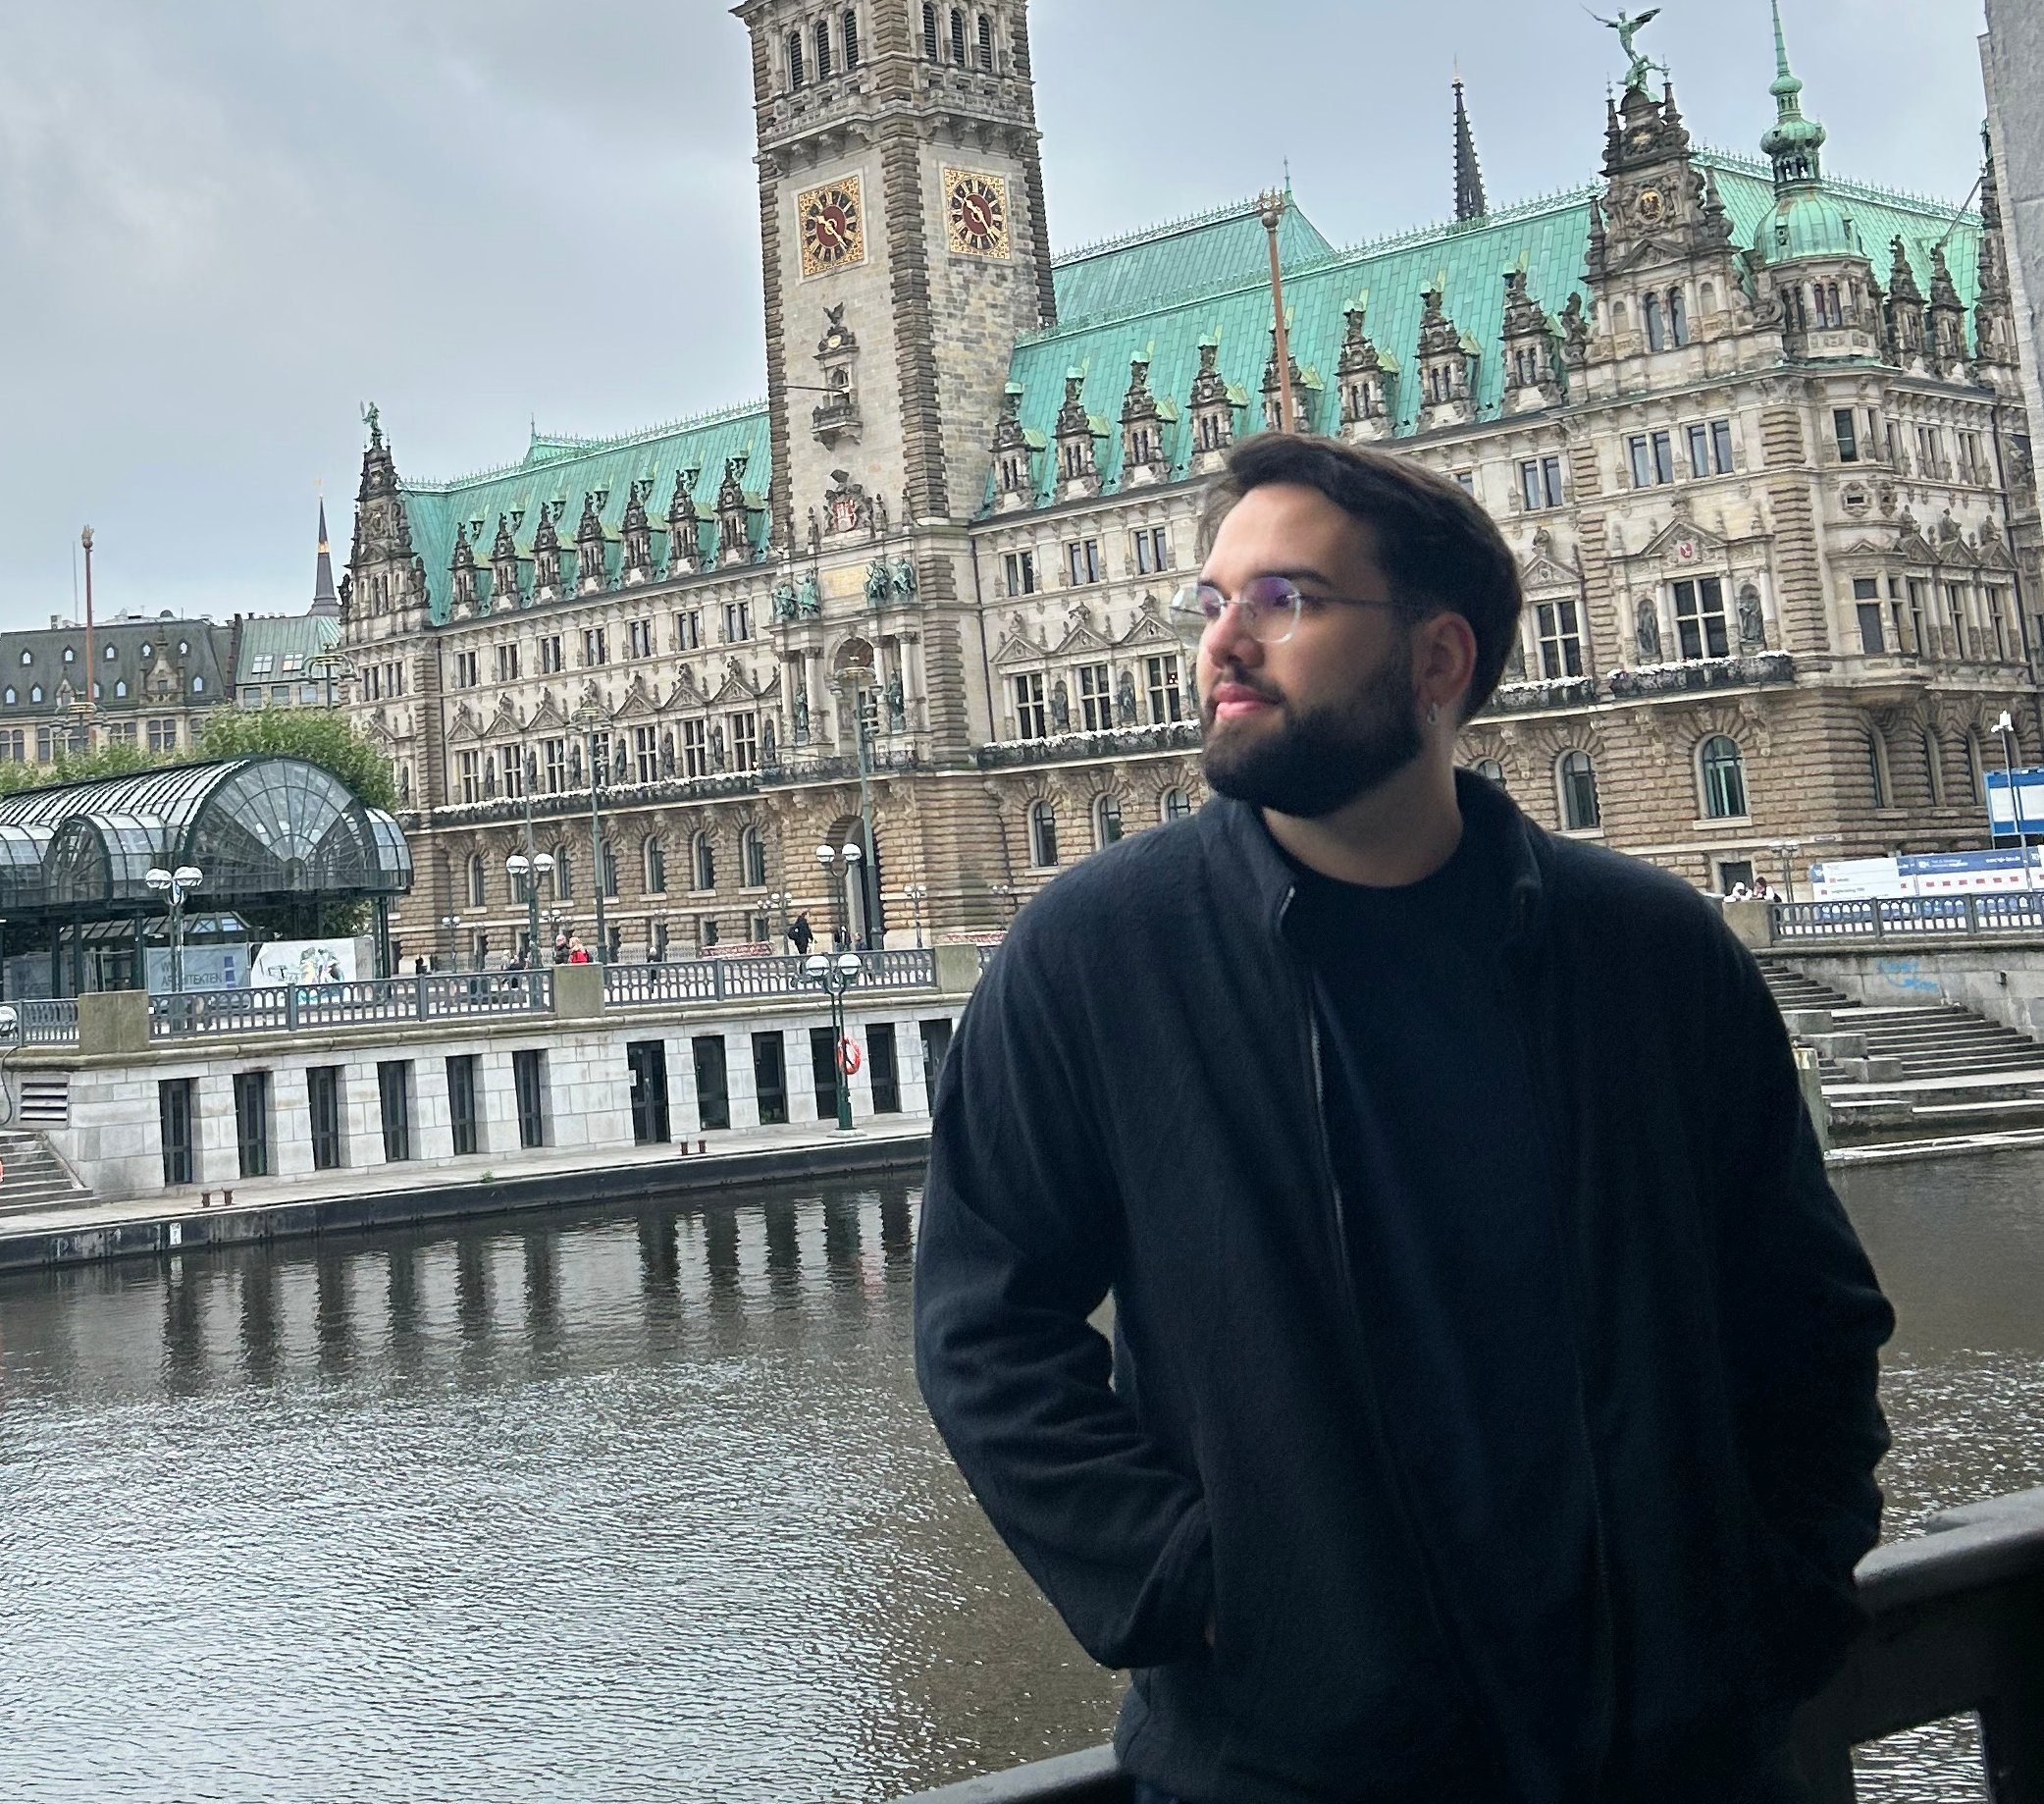
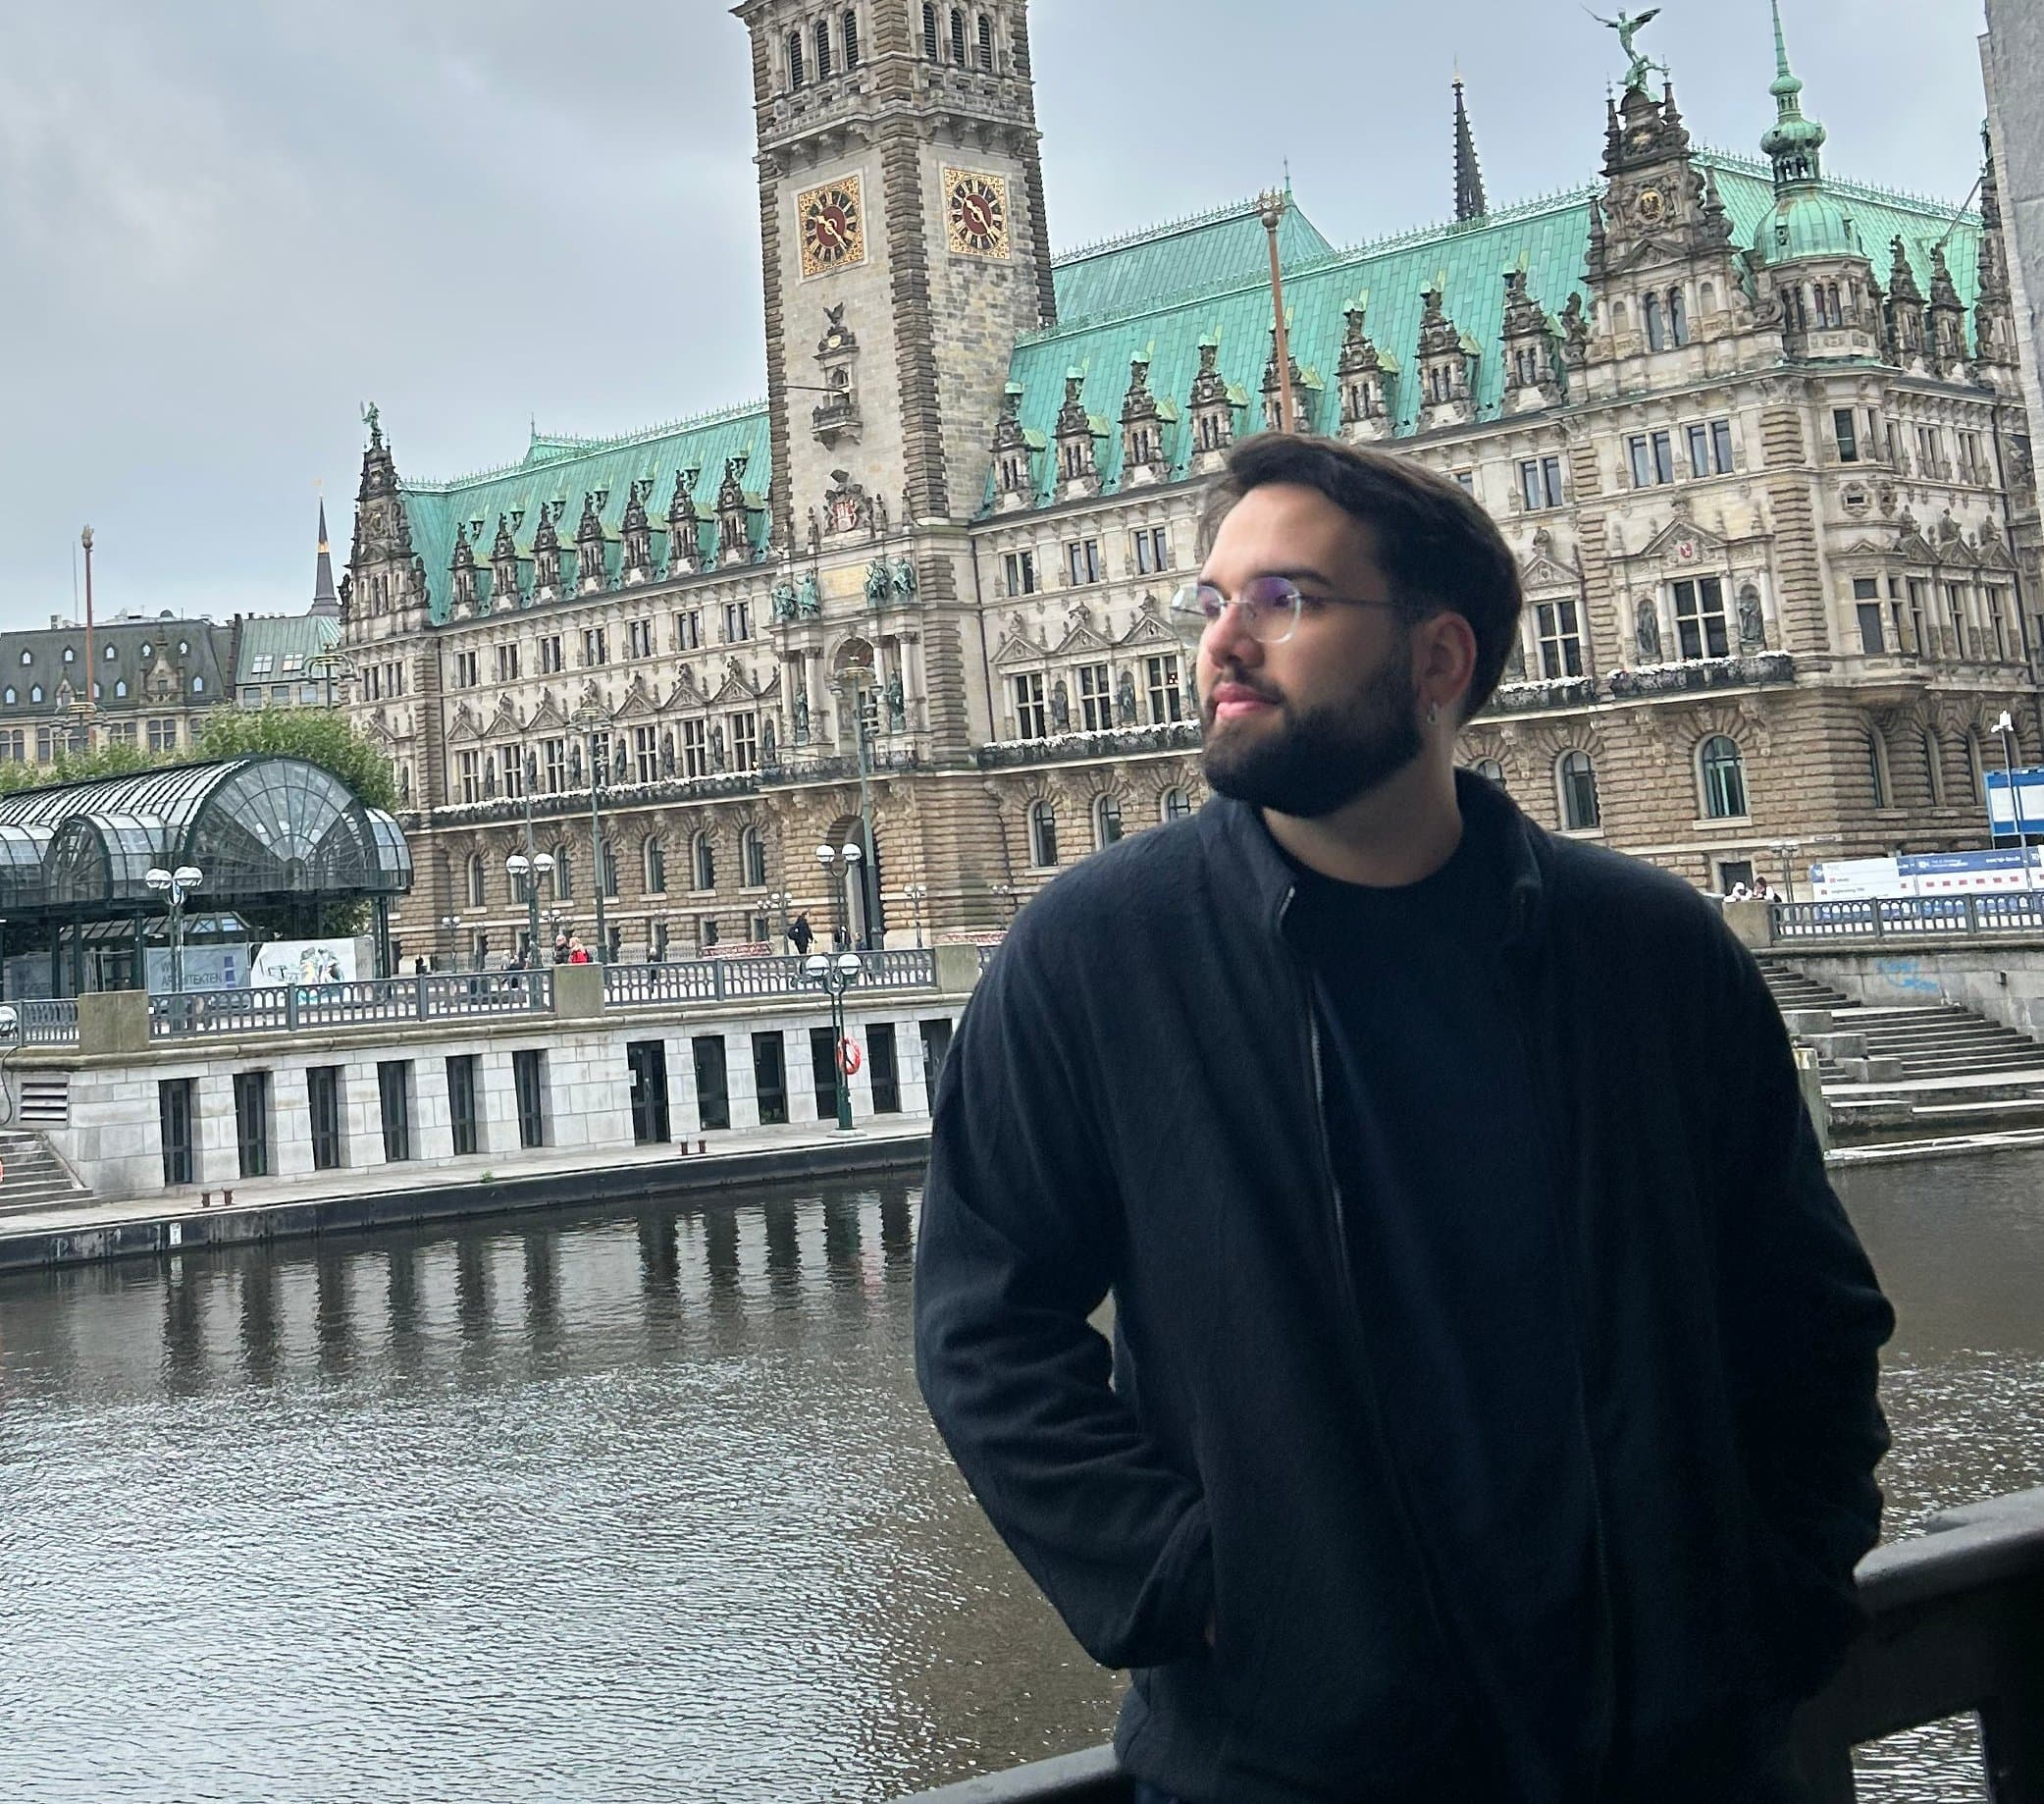
added another blog post

Changed region(s): [[0.0624, 0.4342, 0.0936, 0.4652], [0.0, 0.4342, 0.0312, 0.4652]]

diff --git a/app/utils/postsData.ts b/app/utils/postsData.ts
@@ -166,4 +166,106 @@ export const posts: Post[] = [
     </article>
     `,
   },
+  {
+    id: "3",
+    date: "2026-05-13",
+    image: "d2b",
+    title: "B2Brain is out!",
+    content: `D2Brain is a place where players can share ideas and thoughts about the game. With the help
+    of AI, we can utilize features like summarization and with some research even create ideas from scrach.`,
+    htmlContent: `
+      <article class="prose lg:prose-xl dark:prose-invert relative z-10 bg-background/50 backdrop-blur-sm rounded-xl p-8 shadow-xl mx-auto mb-12">
+
+        <!-- Intro CTA card -->
+        <div class="not-prose mb-10 flex flex-col sm:flex-row sm:items-center gap-5 p-6 bg-base-200/70 backdrop-blur-sm rounded-xl border border-base-300 shadow-lg">
+          <p class="text-lg leading-relaxed flex-1 m-0">
+            D2Brain is out and you can access it at
+            <a class="text-sky-500 hover:text-sky-600 transition-colors underline" href="https://d2b.vercel.app">this link</a>,
+            your support will be very appreciated. I'm still on early stages of the platform but I've already have a lot of ideas to implement.
+          </p>
+          <a href="https://d2b.vercel.app" class="not-prose shrink-0 inline-flex items-center gap-2 px-5 py-2.5 bg-primary text-primary-content font-semibold rounded-lg hover:opacity-90 transition-opacity text-sm no-underline">
+            Visit D2Brain &rarr;
+          </a>
+        </div>
+
+        <h2 class="text-3xl font-bold mt-12 mb-6">Side Projects &amp; Motivation</h2>
+        <p class="text-lg leading-relaxed mb-6">
+          My idea of a side project is something that can be helpful for my career(at least on the stage I'm at right now) and it maybe can generate
+          some passive income. The dream scenario is a project that can improve my skills making money in the process, but this is very hard since
+          I don't have the skills to do all of that, so let's keep on the study and improvement focus so it is harder to get unmotivated.
+        </p>
+        <p class="text-lg leading-relaxed mb-6">
+          In the first blog post I commented about how easy it is to lose track and eventually let your side project die, I have a nice example at
+          the <a class="text-sky-500 hover:text-sky-600 transition-colors underline" href="/projects">projects</a> page on this website. With the popularity of
+          AI tools I started to redo some of the old ideas that I had in mind because it is easy to get started and with more experience that I have now,
+          I'm able to move way faster. Honestly, I let another side project die again but this website is the result of combining something that can be helpful for me
+          and improving my skills.
+        </p>
+
+        <!-- Callout quote -->
+        <div class="my-10 p-8 border-l-4 border-primary bg-base-200/70 backdrop-blur-sm rounded-xl shadow-lg not-prose">
+          <h3 class="text-xl font-semibold mb-3">A lesson learned</h3>
+          <p class="text-lg italic">I consume a lot of programming related content and I've heard this sentence a lot of times: &ldquo;Build something that can make your life easier&rdquo;. And for some reason I always try to make something that can make money instead.</p>
+        </div>
+
+        <h2 class="text-3xl font-bold mt-12 mb-6">The Journey</h2>
+        <p class="text-lg leading-relaxed mb-6">
+          The D2Brain project is another "successful" side project in the sense that I started it to help me with my work and it has been a great learning experience.
+          I've already tried to create a platform like that a few years back but I never really got the hang of it and gave up. This time I decided to give it another shot
+          and I'm glad I did. And most important, I had an idea that I wanted to implement from start to finish and I was able to execute it successfully. Now I'm on the path
+          to improve the platform and make it even better.
+        </p>
+        <p class="text-lg leading-relaxed mb-6">
+          I consume a lot of programming related content and I've heard this sentence a lot of times: "Build something that can make your life easier". And for some reason I always
+          try to make something that can make money instead. Eventually I realized that I'm building something that is pointless and not useful for me, and after this realization
+          it's basically impossible to get motivated to continue working on it. This blog is the first example of a platform that can be helpful for me, building some features that
+          can actually be useful and display my work to others.
+        </p>
+        <p class="text-lg leading-relaxed mb-6">
+          The idea to revive the D2Brain platform is my love for the game and my desire to bring something that is meaningful for me and for others. So working with the game
+          that I love is very rewarding and adding meanful features feel even more rewarding. Finishing that was a huge step forward and I'm excited to see what the next steps will be.
+          I struggled so much to finish a product and now I'm even creating roadmaps, improving existing features and making the platform always better.
+        </p>
+
+        <h2 class="text-3xl font-bold mt-12 mb-6">AI Integration</h2>
+        <p class="text-lg leading-relaxed mb-6">
+          I can't lie, AI tools are making my life so much easier and convenient. Around a year ago I've used some capable models to help me build this blog and today we have even
+          powerful ones, that I can trust a bit more and with the correct context and structure I can use them to help me build even better products. Another thing that I'm exploring
+          is adding AI to the product itself, not just the tools to help me build it.
+        </p>
+
+        <!-- AI features grid -->
+        <div class="not-prose grid grid-cols-1 sm:grid-cols-3 gap-4 my-8">
+          <div class="bg-base-200/70 backdrop-blur-sm p-5 rounded-xl shadow-md text-center transition-all hover:scale-105">
+            <div class="text-3xl mb-3">&#9889;</div>
+            <h4 class="font-bold mb-2">Summarization</h4>
+            <p class="text-sm text-base-content/70">AI-powered summaries to quickly digest platform content.</p>
+          </div>
+          <div class="bg-base-200/70 backdrop-blur-sm p-5 rounded-xl shadow-md text-center transition-all hover:scale-105">
+            <div class="text-3xl mb-3">&#128161;</div>
+            <h4 class="font-bold mb-2">Idea Generator</h4>
+            <p class="text-sm text-base-content/70">An AI assistant that creates ideas from scratch using external APIs.</p>
+          </div>
+          <div class="bg-base-200/70 backdrop-blur-sm p-5 rounded-xl shadow-md text-center transition-all hover:scale-105">
+            <div class="text-3xl mb-3">&#128172;</div>
+            <h4 class="font-bold mb-2">Chat Agent <span class="text-xs font-normal opacity-60">(soon)</span></h4>
+            <p class="text-sm text-base-content/70">A chat interface to interact with the platform and help users with their gameplay.</p>
+          </div>
+        </div>
+
+        <p class="text-lg leading-relaxed mb-6">
+          On the D2Brain platform, I'm exploring the idea of adding AI to the product itself and I'm having a lot of fun with it. We already have summarization and a
+          AI assistant that can create ideas for the platform, making requests to external APIs and generating content on the fly. I'm playing around with different models
+          to test the outputs and see how capable they can be on this context as well. After all of that the main goal is to create a chat interface and create an agent to
+          interact with the platform and help users with their gameplay.
+        </p>
+
+        <h2 class="text-3xl font-bold mt-12 mb-6">What's Next</h2>
+        <p class="text-lg leading-relaxed mb-6">
+          Hopefully I can get back to this blog soon and share more about what I'm working on. Working on something that can be useful to me is changing how I think about
+          building and creating products. It is harder to get unmotivated when you are building something that you like.
+        </p>
+      </article>
+    `,
+  },
 ];

diff --git a/app/pages/posts/index.vue b/app/pages/posts/index.vue
@@ -6,7 +6,7 @@ useHead({
 });
 
 const { data: posts } = await useAsyncData("posts", async () => {
-    return postsData;
+    return [...postsData].reverse();
 });
 </script>
 
@@ -23,7 +23,7 @@ const { data: posts } = await useAsyncData("posts", async () => {
             class="grid grid-cols-1 md:grid-cols-2 gap-10"
         >
             <NuxtLink
-                v-for="post in posts?.reverse()"
+                v-for="post in posts"
                 :key="post.id"
                 :to="`/posts/${post.id}`"
                 class="group card bg-base-100 shadow-xl border border-base-200 overflow-hidden hover:shadow-2xl transition-all duration-300 hover:-translate-y-1"

diff --git a/app/pages/experience.vue b/app/pages/experience.vue
@@ -15,7 +15,7 @@ const getTabFromQuery = (): string => {
     if (tabParam && validTabs.includes(tabParam)) {
         return tabParam;
     }
-    return "projects";
+    return "resume";
 };
 
 // Initialize tab from query param (works on both server and client)